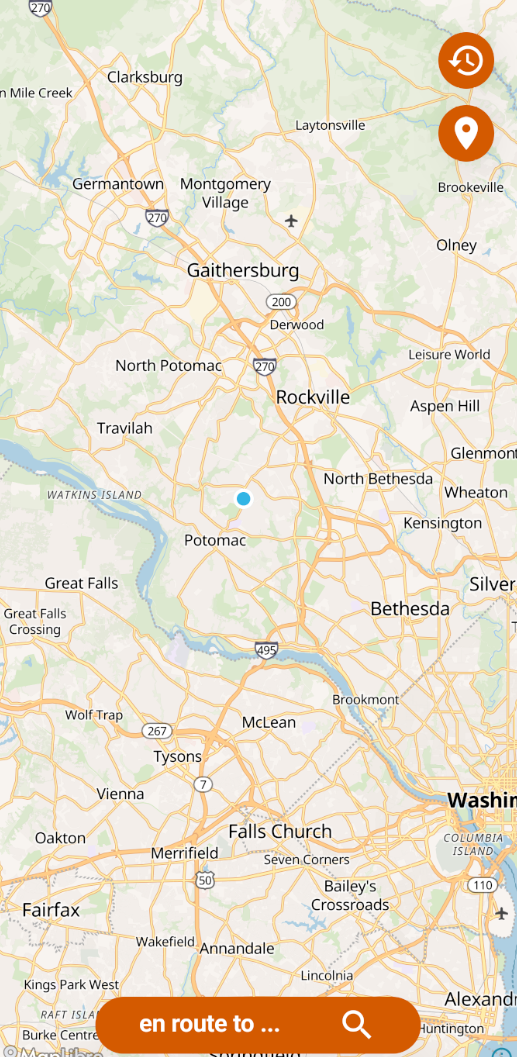
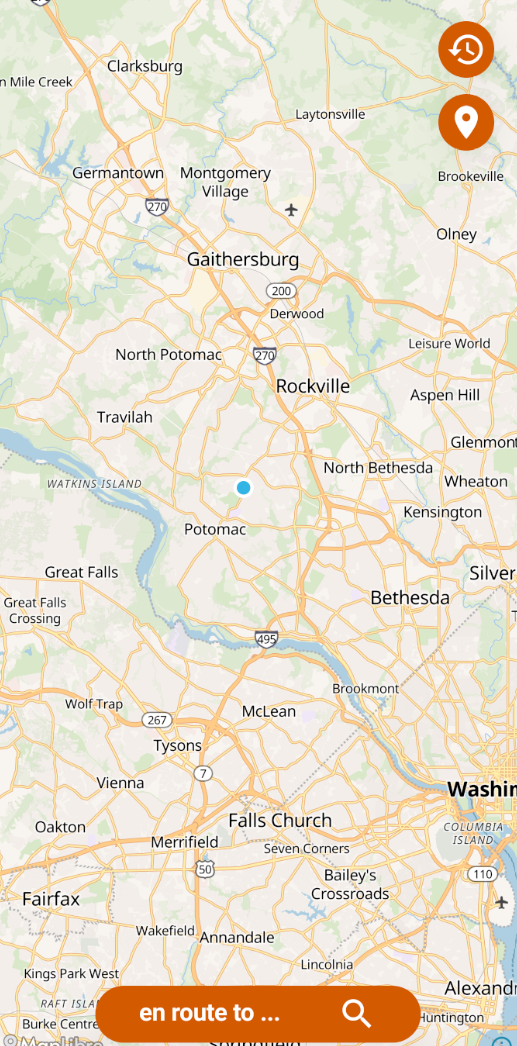
Get Started!!

diff --git a/README.md b/README.md
@@ -2,9 +2,9 @@
   <img src="./public/ICON.png" alt="En Route" width="180" />
 </p>
 
-<p align="center">
+<h3 align="center">
   Full-stack navigation and trip optimization application.
-</p>
+</h3>
 
 # En Route
 
